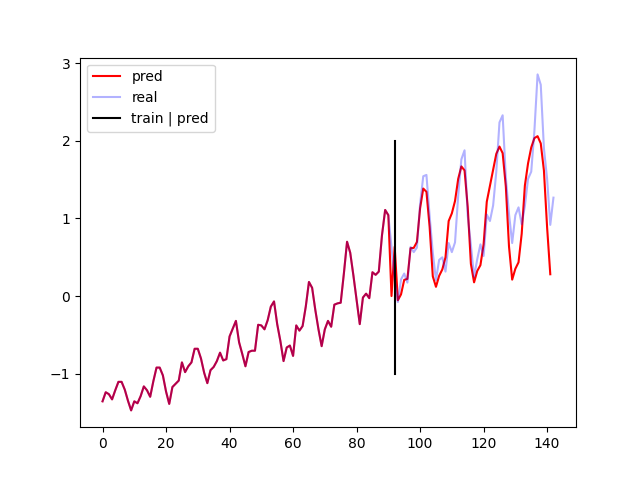
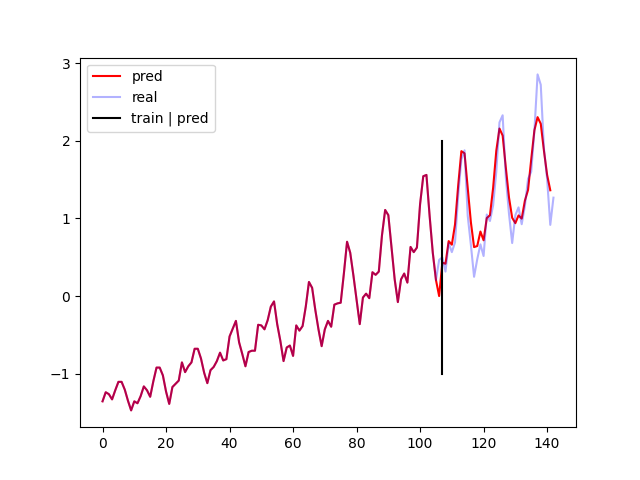
add keras lstm demo

Changed region(s): [[0.5938, 0.25, 0.875, 0.6562]]

diff --git a/08_strategy/01_techique/01_demo.py b/08_strategy/01_techique/01_demo.py
@@ -1,0 +1,122 @@
+import akshare as ak
+import numpy as np
+import pandas as pd
+
+import matplotlib.pyplot as plt
+from sklearn.preprocessing import MinMaxScaler
+
+
+# 下载A股所有数据
+# all_df = ak.stock_zh_a_spot_em()
+# print(all_df.head())
+
+# 20230131-20230531,　形态, 83周期
+# target: 600640，20230303 - 20030705
+
+# 下载个股日k数据图
+df_daily_all = ak.stock_zh_a_hist(symbol="002747", period = "daily", start_date= "20190101", end_date="20230609")
+# df_daily_all = ak.stock_zh_a_hist(symbol="600103", period = "daily", start_date= "20190101", end_date="20230712")
+# print(df_daily.info())
+print(df_daily_all.info())
+# print(df_daily.tail())
+
+price_df = df_daily_all[["收盘"]]
+vol_df = df_daily_all["成交量"]
+
+
+data = np.asarray(price_df)
+
+def plot_pivots(X, pivots):
+    plt.xlim(0, len(X))
+    plt.ylim(X.min()*0.99, X.max()*1.01)
+    plt.plot(np.arange(len(X)), X, 'b:', alpha=0.5)
+    # plt.plot(np.arange(len(X)), pivots, 'r-', alpha=0.5)
+    # plt.plot(np.arange(len(X))[pivots != 0], X[pivots != 0], 'k-')
+
+
+plot_pivots(data, {})
+# plt.show()
+
+training_data_len = int(np.ceil( len(data) * 0.9 ))
+scaler = MinMaxScaler(feature_range=(0,1))
+# data = data[:, np.newaxis]
+scaled_data = scaler.fit_transform(data)
+
+# Create the training data set 
+# Create the scaled training data set
+train_data = scaled_data[0:int(training_data_len), :]
+# Split the data into x_train and y_train data sets
+x_train = []
+y_train = []
+
+for i in range(60, len(train_data)):
+    x_train.append(train_data[i-60:i, 0])
+    y_train.append(train_data[i, 0])
+    if i<= 61:
+        print(x_train)
+        print(y_train)
+        print()
+        
+# Convert the x_train and y_train to numpy arrays 
+x_train, y_train = np.array(x_train), np.array(y_train)
+
+# Reshape the data
+x_train = np.reshape(x_train, (x_train.shape[0], x_train.shape[1], 1))
+# x_train.shape
+
+from keras.models import Sequential
+from keras.layers import Dense, LSTM
+
+# Build the LSTM model
+model = Sequential()
+model.add(LSTM(128, return_sequences=True, input_shape= (x_train.shape[1], 1)))
+model.add(LSTM(64, return_sequences=False))
+model.add(Dense(25))
+model.add(Dense(1))
+
+
+
+# Compile the model
+model.compile(optimizer='adam', loss='mean_squared_error')
+
+# Train the model
+model.fit(x_train, y_train, batch_size=1, epochs=1)
+
+
+# Create the testing data set
+# Create a new array containing scaled values from index 1543 to 2002 
+test_data = scaled_data[training_data_len - 60: , :]
+# Create the data sets x_test and y_test
+x_test = []
+y_test = data[training_data_len:, :]
+for i in range(60, len(test_data)):
+    x_test.append(test_data[i-60:i, 0])
+    
+# Convert the data to a numpy array
+x_test = np.array(x_test)
+
+# Reshape the data
+x_test = np.reshape(x_test, (x_test.shape[0], x_test.shape[1], 1 ))
+
+# Get the models predicted price values 
+predictions = model.predict(x_test)
+predictions = scaler.inverse_transform(predictions)
+
+# Get the root mean squared error (RMSE)
+rmse = np.sqrt(np.mean(((predictions - y_test) ** 2)))
+print(f"rmse {rmse}")
+
+# Plot the data
+train = price_df[:training_data_len]
+valid = price_df[training_data_len:]
+valid['预测'] = predictions
+# Visualize the data
+plt.figure(figsize=(16,6))
+plt.title('Model')
+plt.xlabel('Date', fontsize=18)
+plt.ylabel('Close Price USD ($)', fontsize=18)
+
+plt.plot(np.array(train['收盘']))
+plt.plot(valid[['收盘', '预测']])
+plt.legend(['Train', 'Val', 'Predictions'], loc='lower right')
+plt.show()

diff --git a/08_strategy/01_techique/02_demo_imp.py b/08_strategy/01_techique/02_demo_imp.py
@@ -1,0 +1,121 @@
+import akshare as ak
+import numpy as np
+import pandas as pd
+
+import matplotlib.pyplot as plt
+from sklearn.preprocessing import MinMaxScaler
+
+
+# 下载A股所有数据
+# all_df = ak.stock_zh_a_spot_em()
+# print(all_df.head())
+
+# 20230131-20230531,　形态, 83周期
+# target: 600640，20230303 - 20030705
+
+# 下载个股日k数据图
+df_daily_all = ak.stock_zh_a_hist(symbol="002747", period = "daily", start_date= "20190101", end_date="20230609")
+# df_daily_all = ak.stock_zh_a_hist(symbol="600103", period = "daily", start_date= "20190101", end_date="20230712")
+# print(df_daily.info())
+print(df_daily_all.info())
+# print(df_daily.tail())
+
+price_df = df_daily_all[["收盘"]]
+vol_df = df_daily_all["成交量"]
+
+
+data = np.asarray(price_df)
+
+def plot_pivots(X, pivots):
+    plt.xlim(0, len(X))
+    plt.ylim(X.min()*0.99, X.max()*1.01)
+    plt.plot(np.arange(len(X)), X, 'b:', alpha=0.5)
+    # plt.plot(np.arange(len(X)), pivots, 'r-', alpha=0.5)
+    # plt.plot(np.arange(len(X))[pivots != 0], X[pivots != 0], 'k-')
+
+
+plot_pivots(data, {})
+# plt.show()
+
+training_data_len = int(np.ceil( len(data) * 0.9 ))
+scaler = MinMaxScaler(feature_range=(0,1))
+# data = data[:, np.newaxis]
+scaled_data = scaler.fit_transform(data)
+
+# Create the training data set 
+# Create the scaled training data set
+train_data = scaled_data[0:int(training_data_len), :]
+# Split the data into x_train and y_train data sets
+x_train = []
+y_train = []
+
+for i in range(60, len(train_data)):
+    x_train.append(train_data[i-60:i, 0])
+    y_train.append(train_data[i, 0])
+    if i<= 61:
+        print(x_train)
+        print(y_train)
+        print()
+        
+# Convert the x_train and y_train to numpy arrays 
+x_train, y_train = np.array(x_train), np.array(y_train)
+
+# Reshape the data
+x_train = np.reshape(x_train, (x_train.shape[0], x_train.shape[1], 1))
+# x_train.shape
+
+from keras.models import Sequential
+from keras.layers import Dense, LSTM
+
+# Build the LSTM model
+model = Sequential()
+model.add(LSTM(128, return_sequences=True, input_shape= (x_train.shape[1], 1)))
+model.add(LSTM(64, return_sequences=False))
+model.add(Dense(25))
+model.add(Dense(1))
+
+
+
+# Compile the model
+model.compile(optimizer='adam', loss='mean_squared_error')
+
+# Train the model
+model.fit(x_train, y_train, batch_size=1, epochs=1)
+
+
+# Create the testing data set
+# Create a new array containing scaled values from index 1543 to 2002 
+test_data = scaled_data[training_data_len - 60: , :]
+# Create the data sets x_test and y_test
+
+
+'''simple way but no elegant'''
+
+x_test = scaled_data.copy()
+x_test[training_data_len:] = 0
+
+for i in range(training_data_len, len(data) - 60):
+    x_test = (x_test[i-60 : i])
+    x_test = np.reshape(x_test, (x_test.shape[0], x_test.shape[1], 1 ))
+    predictions = model.predict(x_test)
+    predictions = scaler.inverse_transform(predictions)
+    x_test[i, ] = predictions[-1]
+    
+# Get the root mean squared error (RMSE)
+# rmse = np.sqrt(np.mean(((predictions - y_test) ** 2)))
+# print(f"rmse {rmse}")
+
+# Plot the data
+train = price_df[:training_data_len]
+valid = price_df[training_data_len:]
+valid['预测'] = predictions
+# Visualize the data
+plt.figure(figsize=(16,6))
+plt.title('Model')
+plt.xlabel('Date', fontsize=18)
+plt.ylabel('Close Price USD ($)', fontsize=18)
+
+plt.plot(np.array(train['收盘']))
+plt.plot(valid[['收盘', '预测']])
+plt.legend(['Train', 'Val', 'Predictions'], loc='lower right')
+plt.show()

diff --git a/01_basic/02_my_zigzag.py b/01_basic/02_my_zigzag.py
@@ -4,7 +4,6 @@
 import akshare as ak
 import numpy as np
 import pandas as pd
-from findiff import FinDiff
 
 import matplotlib.pyplot as plt
 
